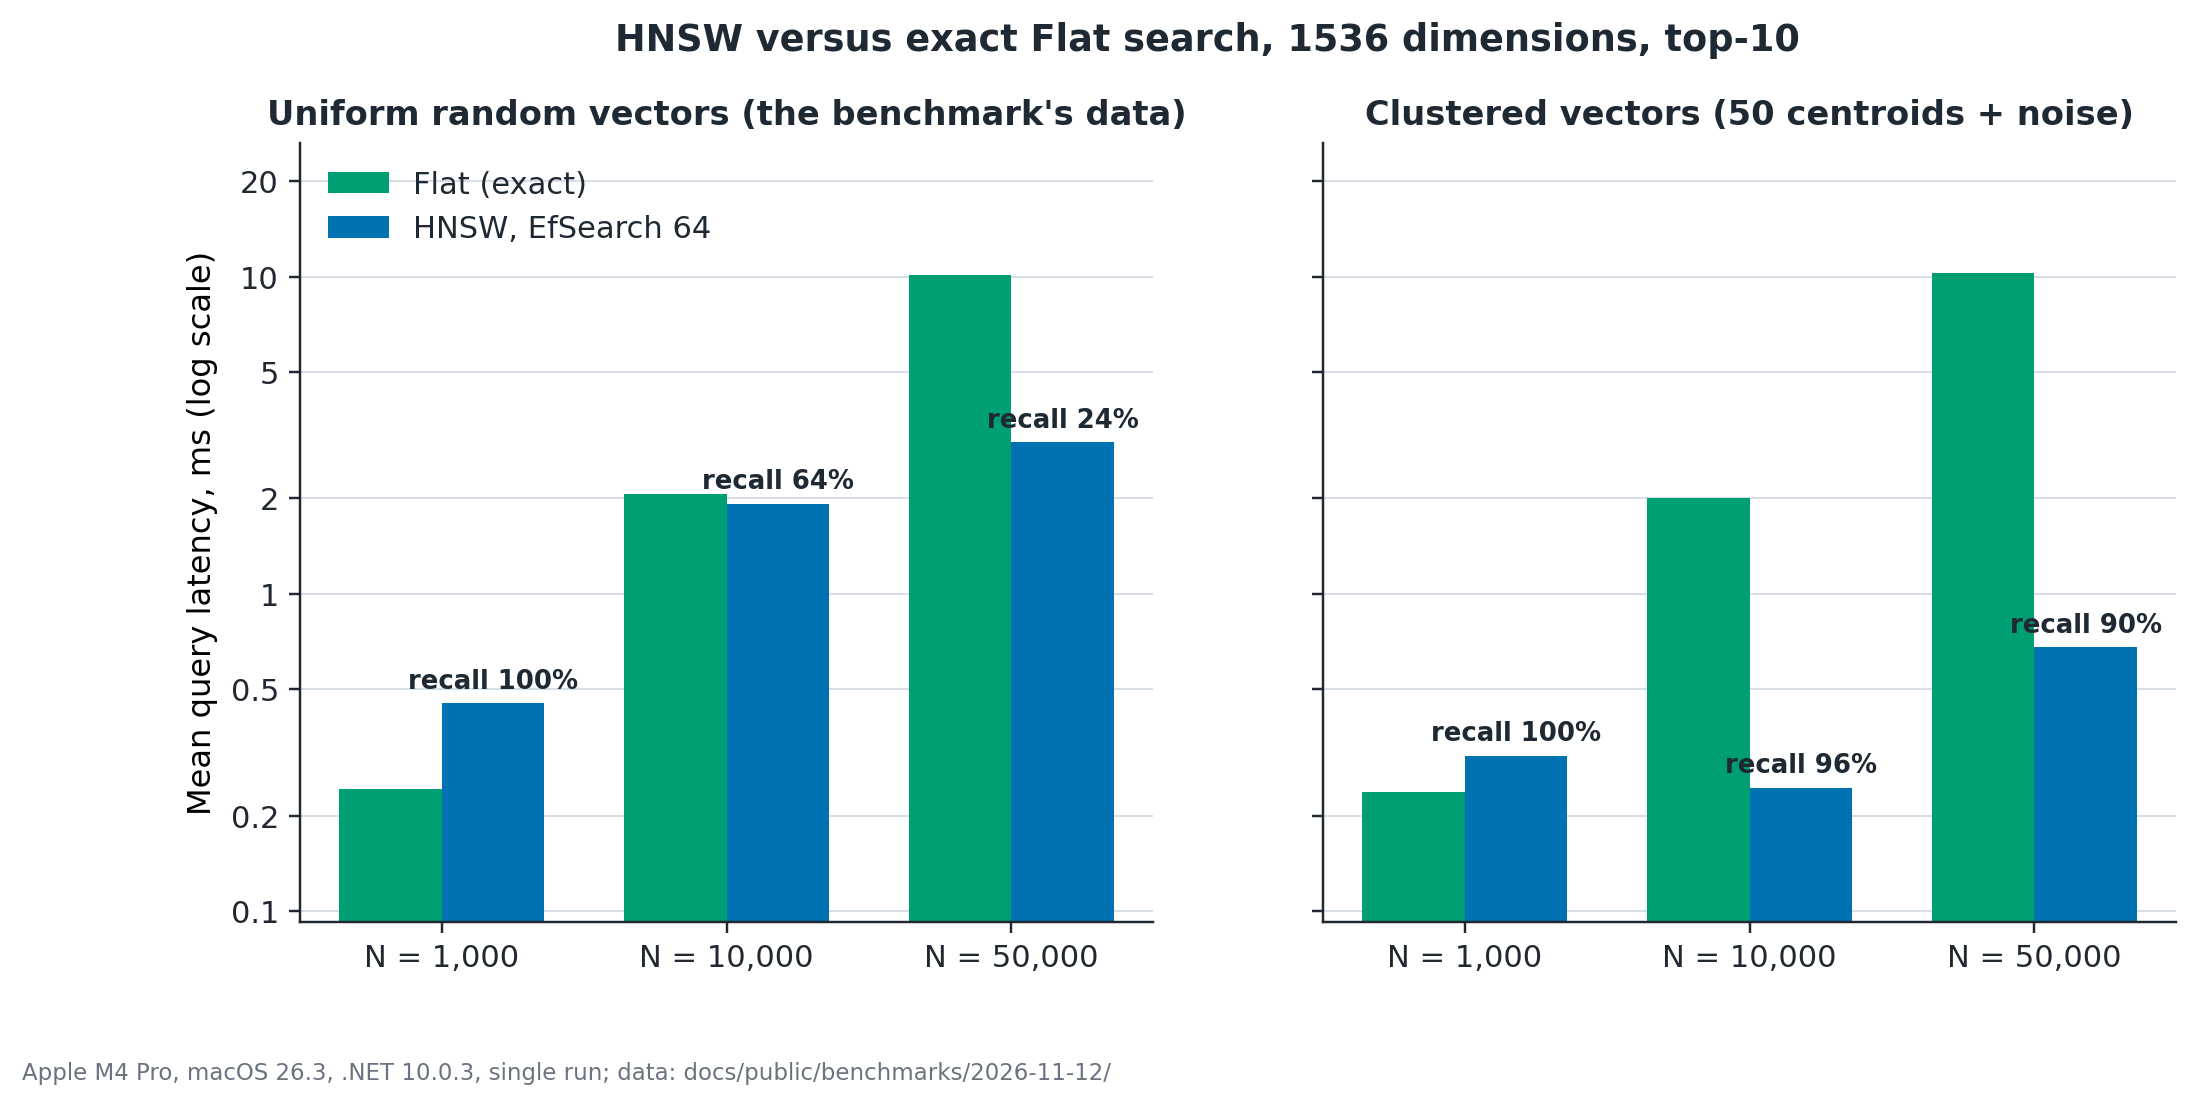
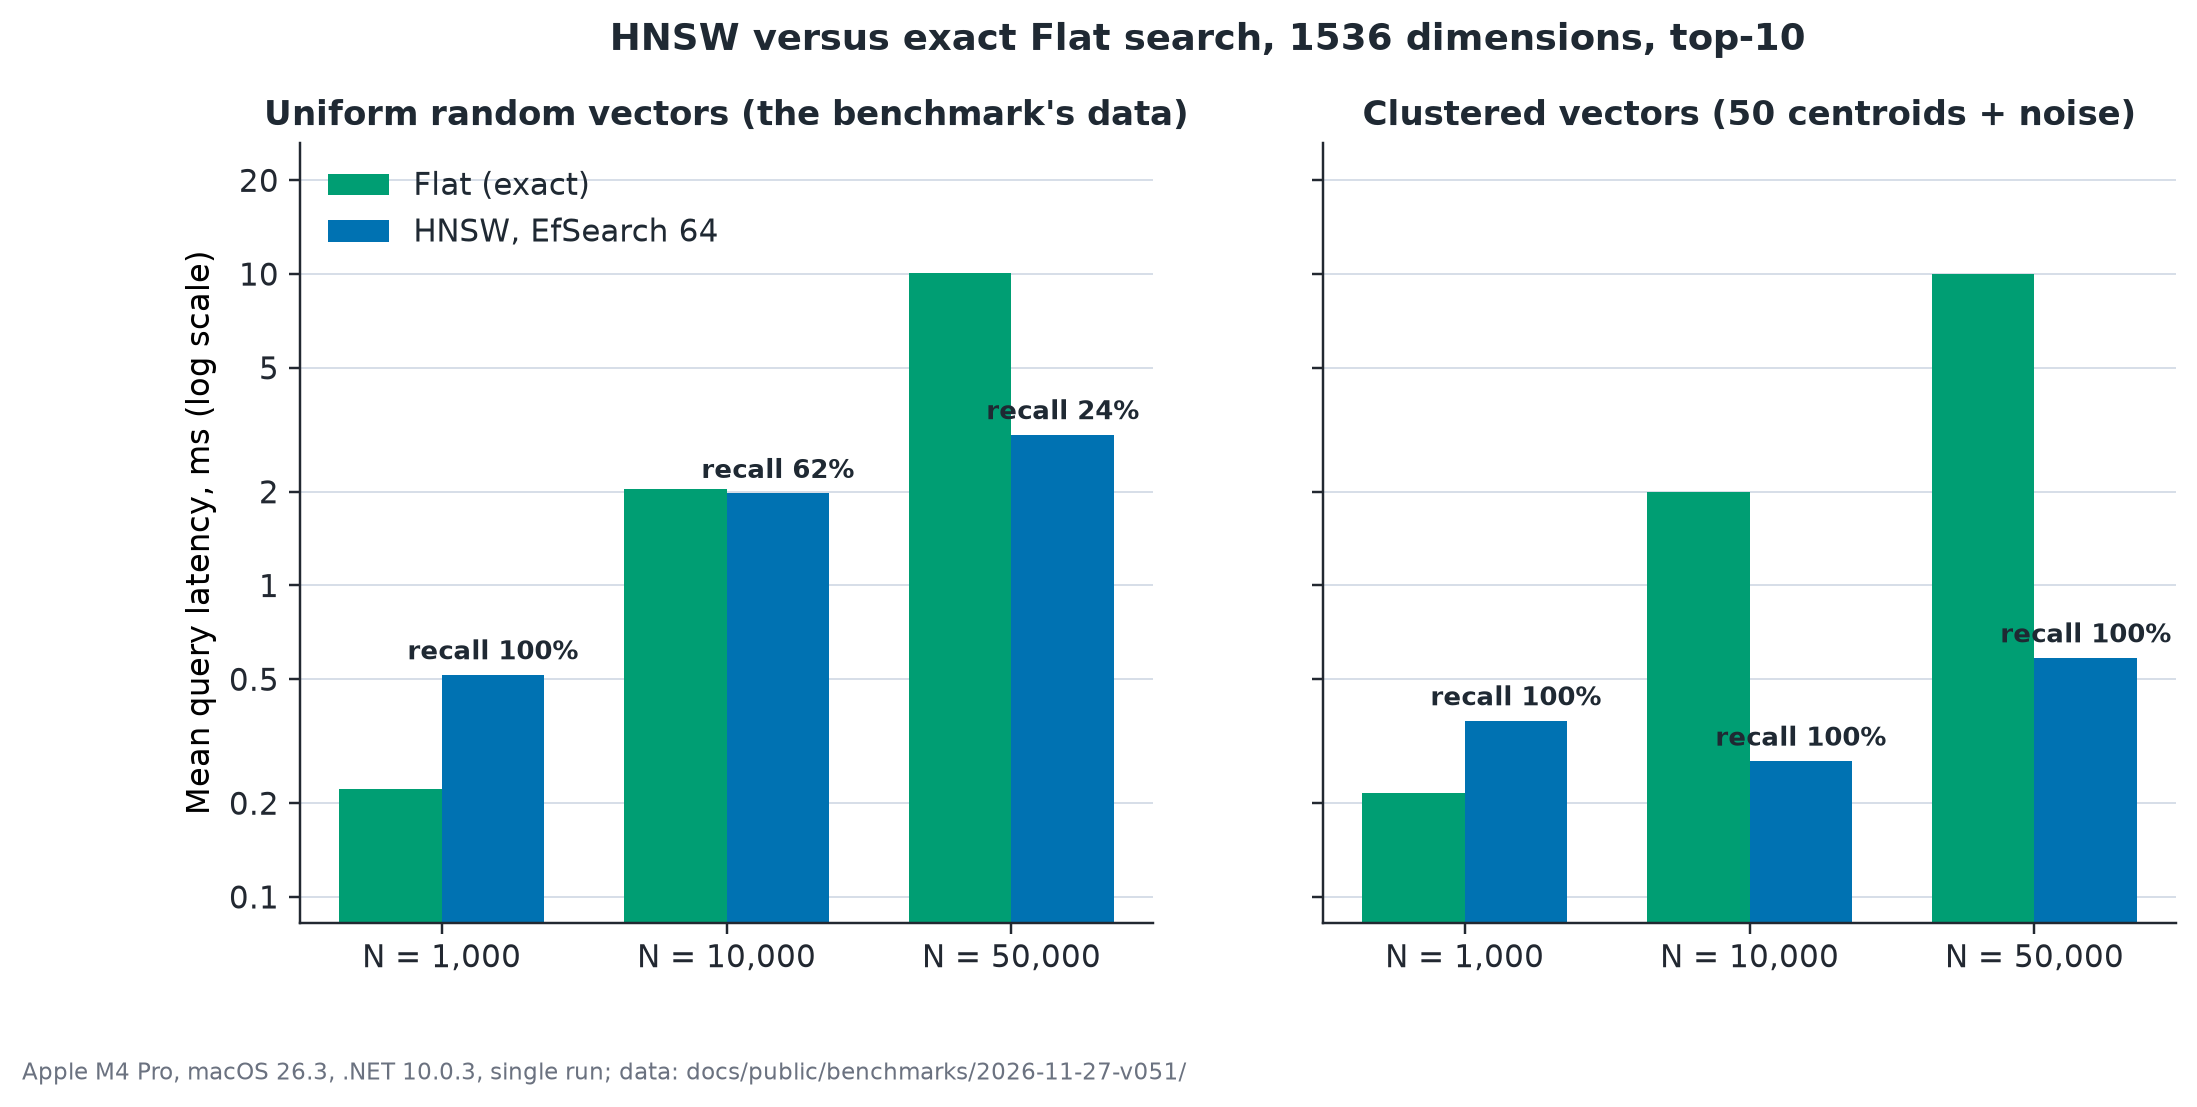
docs(benchmarks): regenerate charts from the v0.5.1 runs
Point the plot scripts at 2026-11-27-v051, accept the decimal comma the
VectorRecall tool prints under a non-English culture, and update the CI
caption to the runners' hardware.

diff --git a/docs/scripts/generate-ci-benchmark-plots.py b/docs/scripts/generate-ci-benchmark-plots.py
@@ -1,7 +1,7 @@
 #!/usr/bin/env python3
-"""Generate the cross-platform figures from the GitHub Actions run of 12 November 2026.
+"""Generate the cross-platform figures from the GitHub Actions runs of 27 November 2026 (v0.5.1).
 
-Inputs, all checked in under docs/public/benchmarks/2026-11-12/:
+Inputs, all checked in under docs/public/benchmarks/2026-11-27-v051/:
   ci/linux-x64/benchmark.log, ci/windows-x64/benchmark.log   Research.Benchmark.Host output
   ci/<platform>/bdn/*.csv                                      BenchmarkDotNet reports
   disk-crud-wal.md, vector-search.md, bdn/*.csv                the local Apple M4 Pro run, for contrast
@@ -24,7 +24,7 @@ import numpy as np
 from matplotlib.ticker import FuncFormatter, LogLocator
 
 OUT = HERE.parent / "public" / "benchmarks"
-RAW = OUT / "2026-11-12"
+RAW = OUT / "2026-11-27-v051"
 
 mpl.rcParams.update({
     "figure.dpi": 150, "savefig.dpi": 220, "font.family": "DejaVu Sans",
@@ -40,8 +40,8 @@ COLOR = {
     "DataVo HNSW": "#56B4E9", "SQLite": "#E69F00", "SQLite full": "#B07400",
     "DuckDB 1 thread": "#F0A27A",
 }
-CAPTION = ("Linux: GitHub-hosted AMD EPYC 7763, 4 vCPU. Windows: AMD EPYC 9V74, 4 vCPU. M1 VM: GitHub-hosted macOS runner. "
-           "macOS: Apple M4 Pro, local. Single run each; data: docs/public/benchmarks/2026-11-12/")
+CAPTION = ("BenchmarkDotNet: Linux on Intel Xeon Platinum 8370C (4 vCPU), Windows on AMD EPYC 9V45 (4 vCPU), M1 VM (3 vCPU), "
+           "GitHub-hosted. macOS: Apple M4 Pro, local. Single run each; data: docs/public/benchmarks/2026-11-27-v051/")
 
 
 def logaxis(ax) -> None:

diff --git a/docs/scripts/generate-ivm-benchmark-plots.py b/docs/scripts/generate-ivm-benchmark-plots.py
@@ -126,22 +126,22 @@ def plot_total_time(
 if __name__ == "__main__":
     plot_total_time(
         title="IVM Simple Exposure: Total Time",
-        subtitle="50,000 insert+read iterations after 10,000 baseline rows (M4 Pro, 2026-11-12)",
+        subtitle="50,000 insert+read iterations after 10,000 baseline rows (M4 Pro, v0.5.1, 2026-11-27)",
         rows=[
-            ("DataVo", 526.897, COLORS["datavo"]),
-            ("SQLite", 574.131, COLORS["sqlite"]),
-            ("DuckDB", 52954.047, COLORS["duckdb"]),
+            ("DataVo", 563.249, COLORS["datavo"]),
+            ("SQLite", 646.183, COLORS["sqlite"]),
+            ("DuckDB", 57012.572, COLORS["duckdb"]),
         ],
         name="ivm-simple-exposure-total-time",
     )
 
     plot_total_time(
         title="IVM Complex VIP: Total Time",
-        subtitle="50,000 JOIN + GROUP BY insert+read iterations (M4 Pro, 2026-11-12)",
+        subtitle="50,000 JOIN + GROUP BY insert+read iterations (M4 Pro, v0.5.1, 2026-11-27)",
         rows=[
-            ("DataVo", 191.699, COLORS["datavo"]),
-            ("DuckDB", 34339.077, COLORS["duckdb"]),
-            ("SQLite", 126064.397, COLORS["sqlite"]),
+            ("DataVo", 237.977, COLORS["datavo"]),
+            ("DuckDB", 39408.076, COLORS["duckdb"]),
+            ("SQLite", 128794.461, COLORS["sqlite"]),
         ],
         name="ivm-complex-vip-total-time",
     )

diff --git a/docs/scripts/generate-benchmark-plots.py b/docs/scripts/generate-benchmark-plots.py
@@ -21,7 +21,7 @@ import matplotlib as mpl
 import matplotlib.pyplot as plt
 import numpy as np
 
-RUN = "2026-11-12"
+RUN = "2026-11-27-v051"
 OUT = HERE.parent / "public" / "benchmarks"
 RAW = OUT / RUN
 CAPTION = "Apple M4 Pro, macOS 26.3, .NET 10.0.3, single run"
@@ -144,12 +144,13 @@ def vector_total():
 
 
 def vector_recall():
-    rx = re.compile(r"N=\s*(\d+) (\w+)\s+build flat\s+(\d+) ms hnsw\s+(\d+) ms \| query mean flat\s+([\d.]+) ms hnsw\s+([\d.]+) ms \| HNSW recall@10 vs exact ([\d.]+) %")
+    rx = re.compile(r"N=\s*(\d+) (\w+)\s+build flat\s+(\d+) ms hnsw\s+(\d+) ms \| query mean flat\s+([\d.,]+) ms hnsw\s+([\d.,]+) ms \| HNSW recall@10 vs exact ([\d.,]+) %")
     data: dict[str, list[tuple]] = {"uniform": [], "clustered": []}
     for line in (RAW / "vector-recall-experiment.txt").read_text().splitlines():
         m = rx.search(line)
         if m:
-            n, kind, bf, bh, qf, qh, rec = m.groups()
+            # The tool prints with the current culture, so accept a decimal comma too.
+            n, kind, bf, bh, qf, qh, rec = (g.replace(",", ".") for g in m.groups())
             data[kind].append((int(n), float(qf), float(qh), float(rec)))
     fig, axes = plt.subplots(1, 2, figsize=(11, 4.6), sharey=True)
     titles = {"uniform": "Uniform random vectors (the benchmark's data)",
